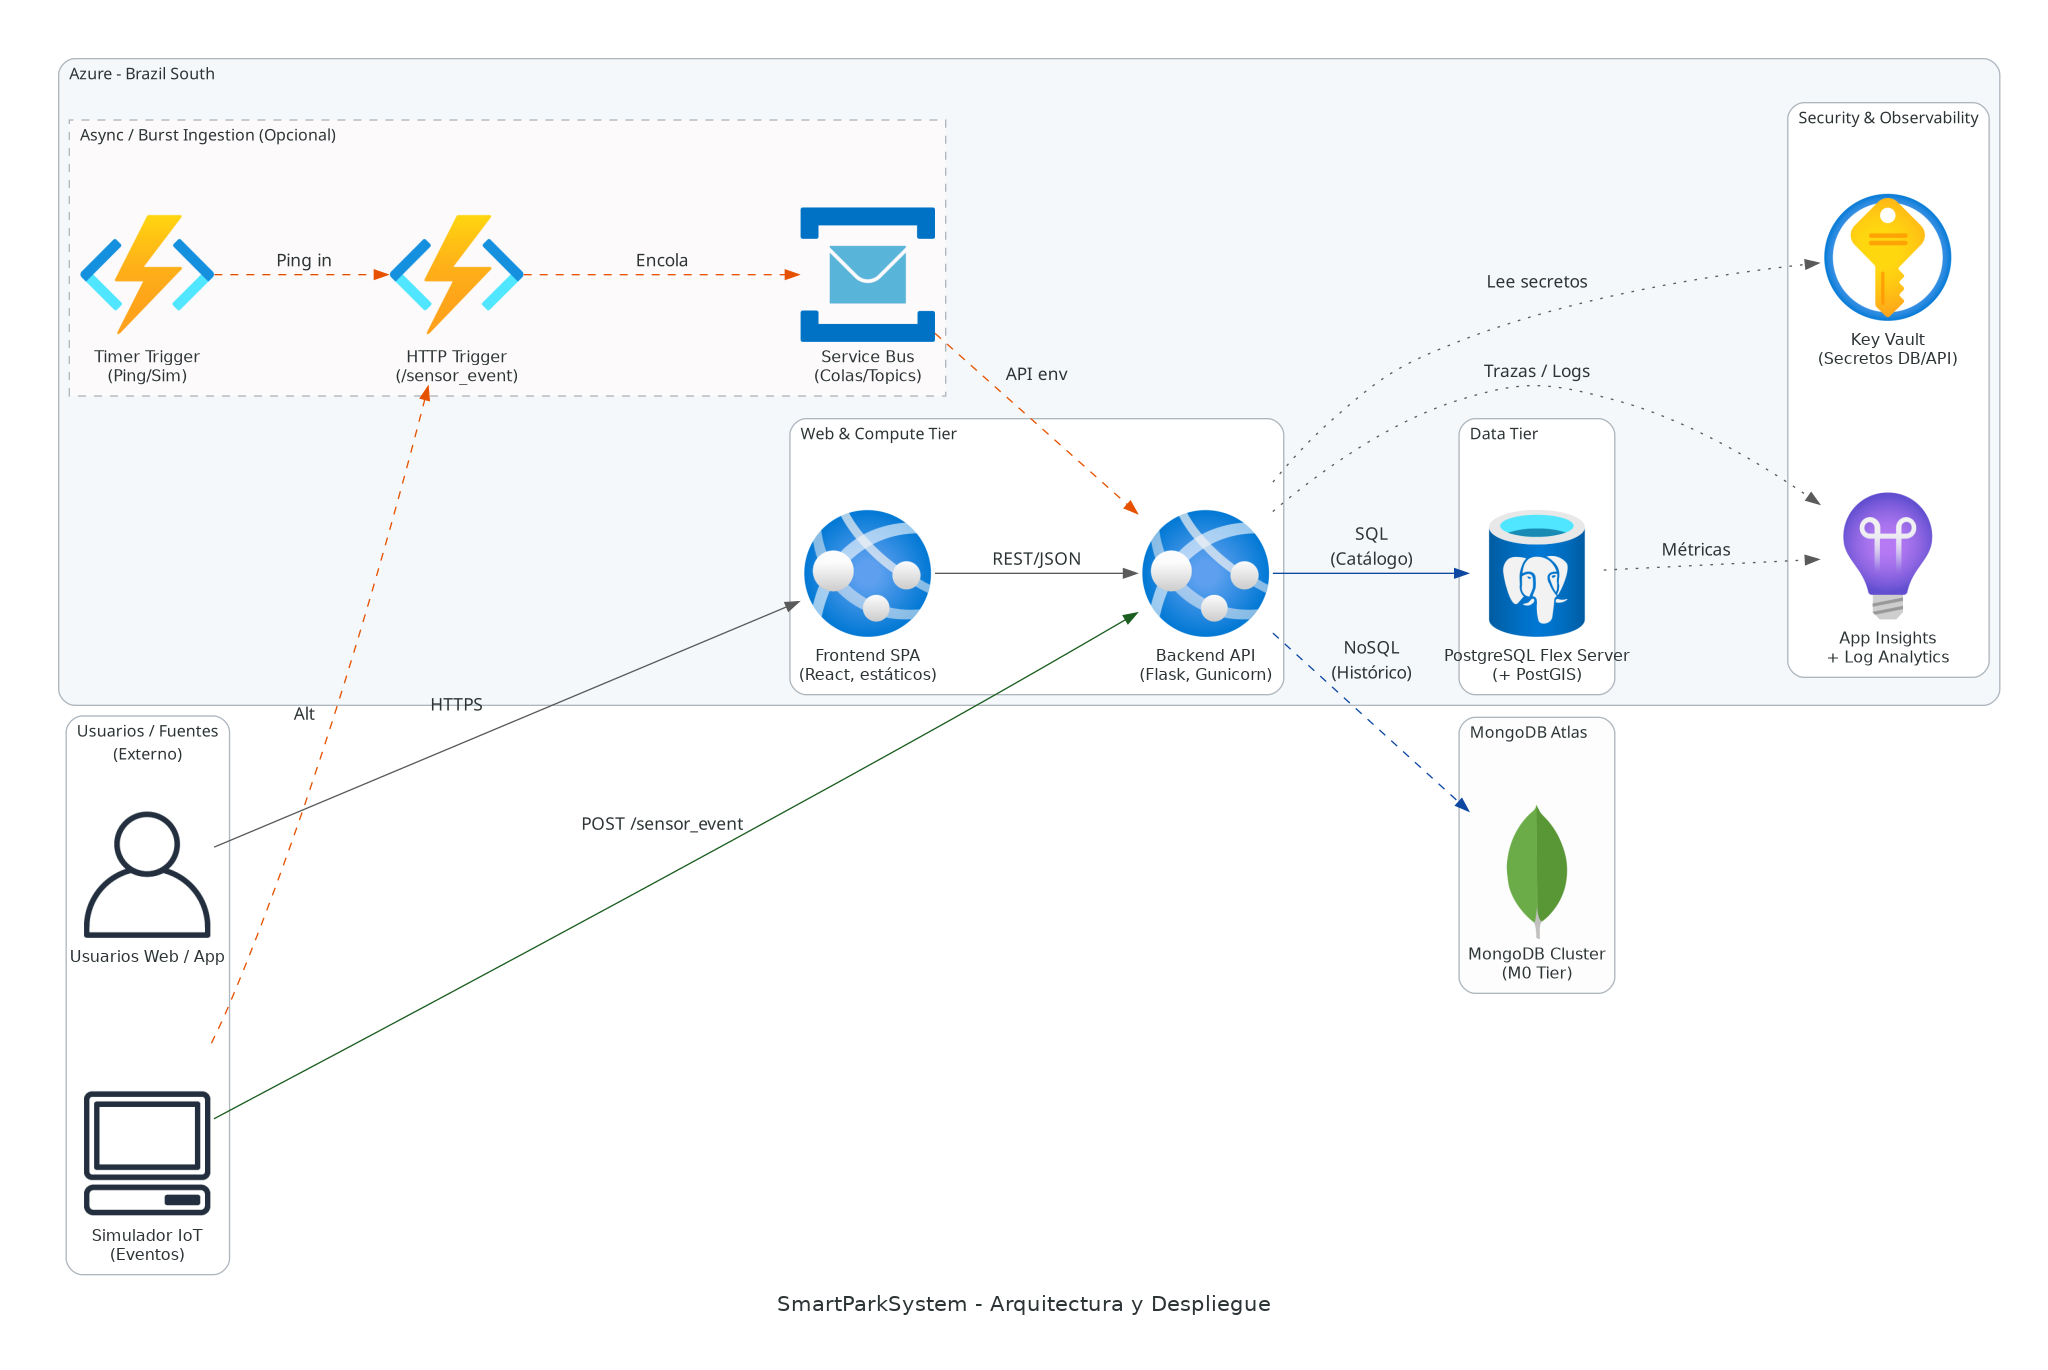
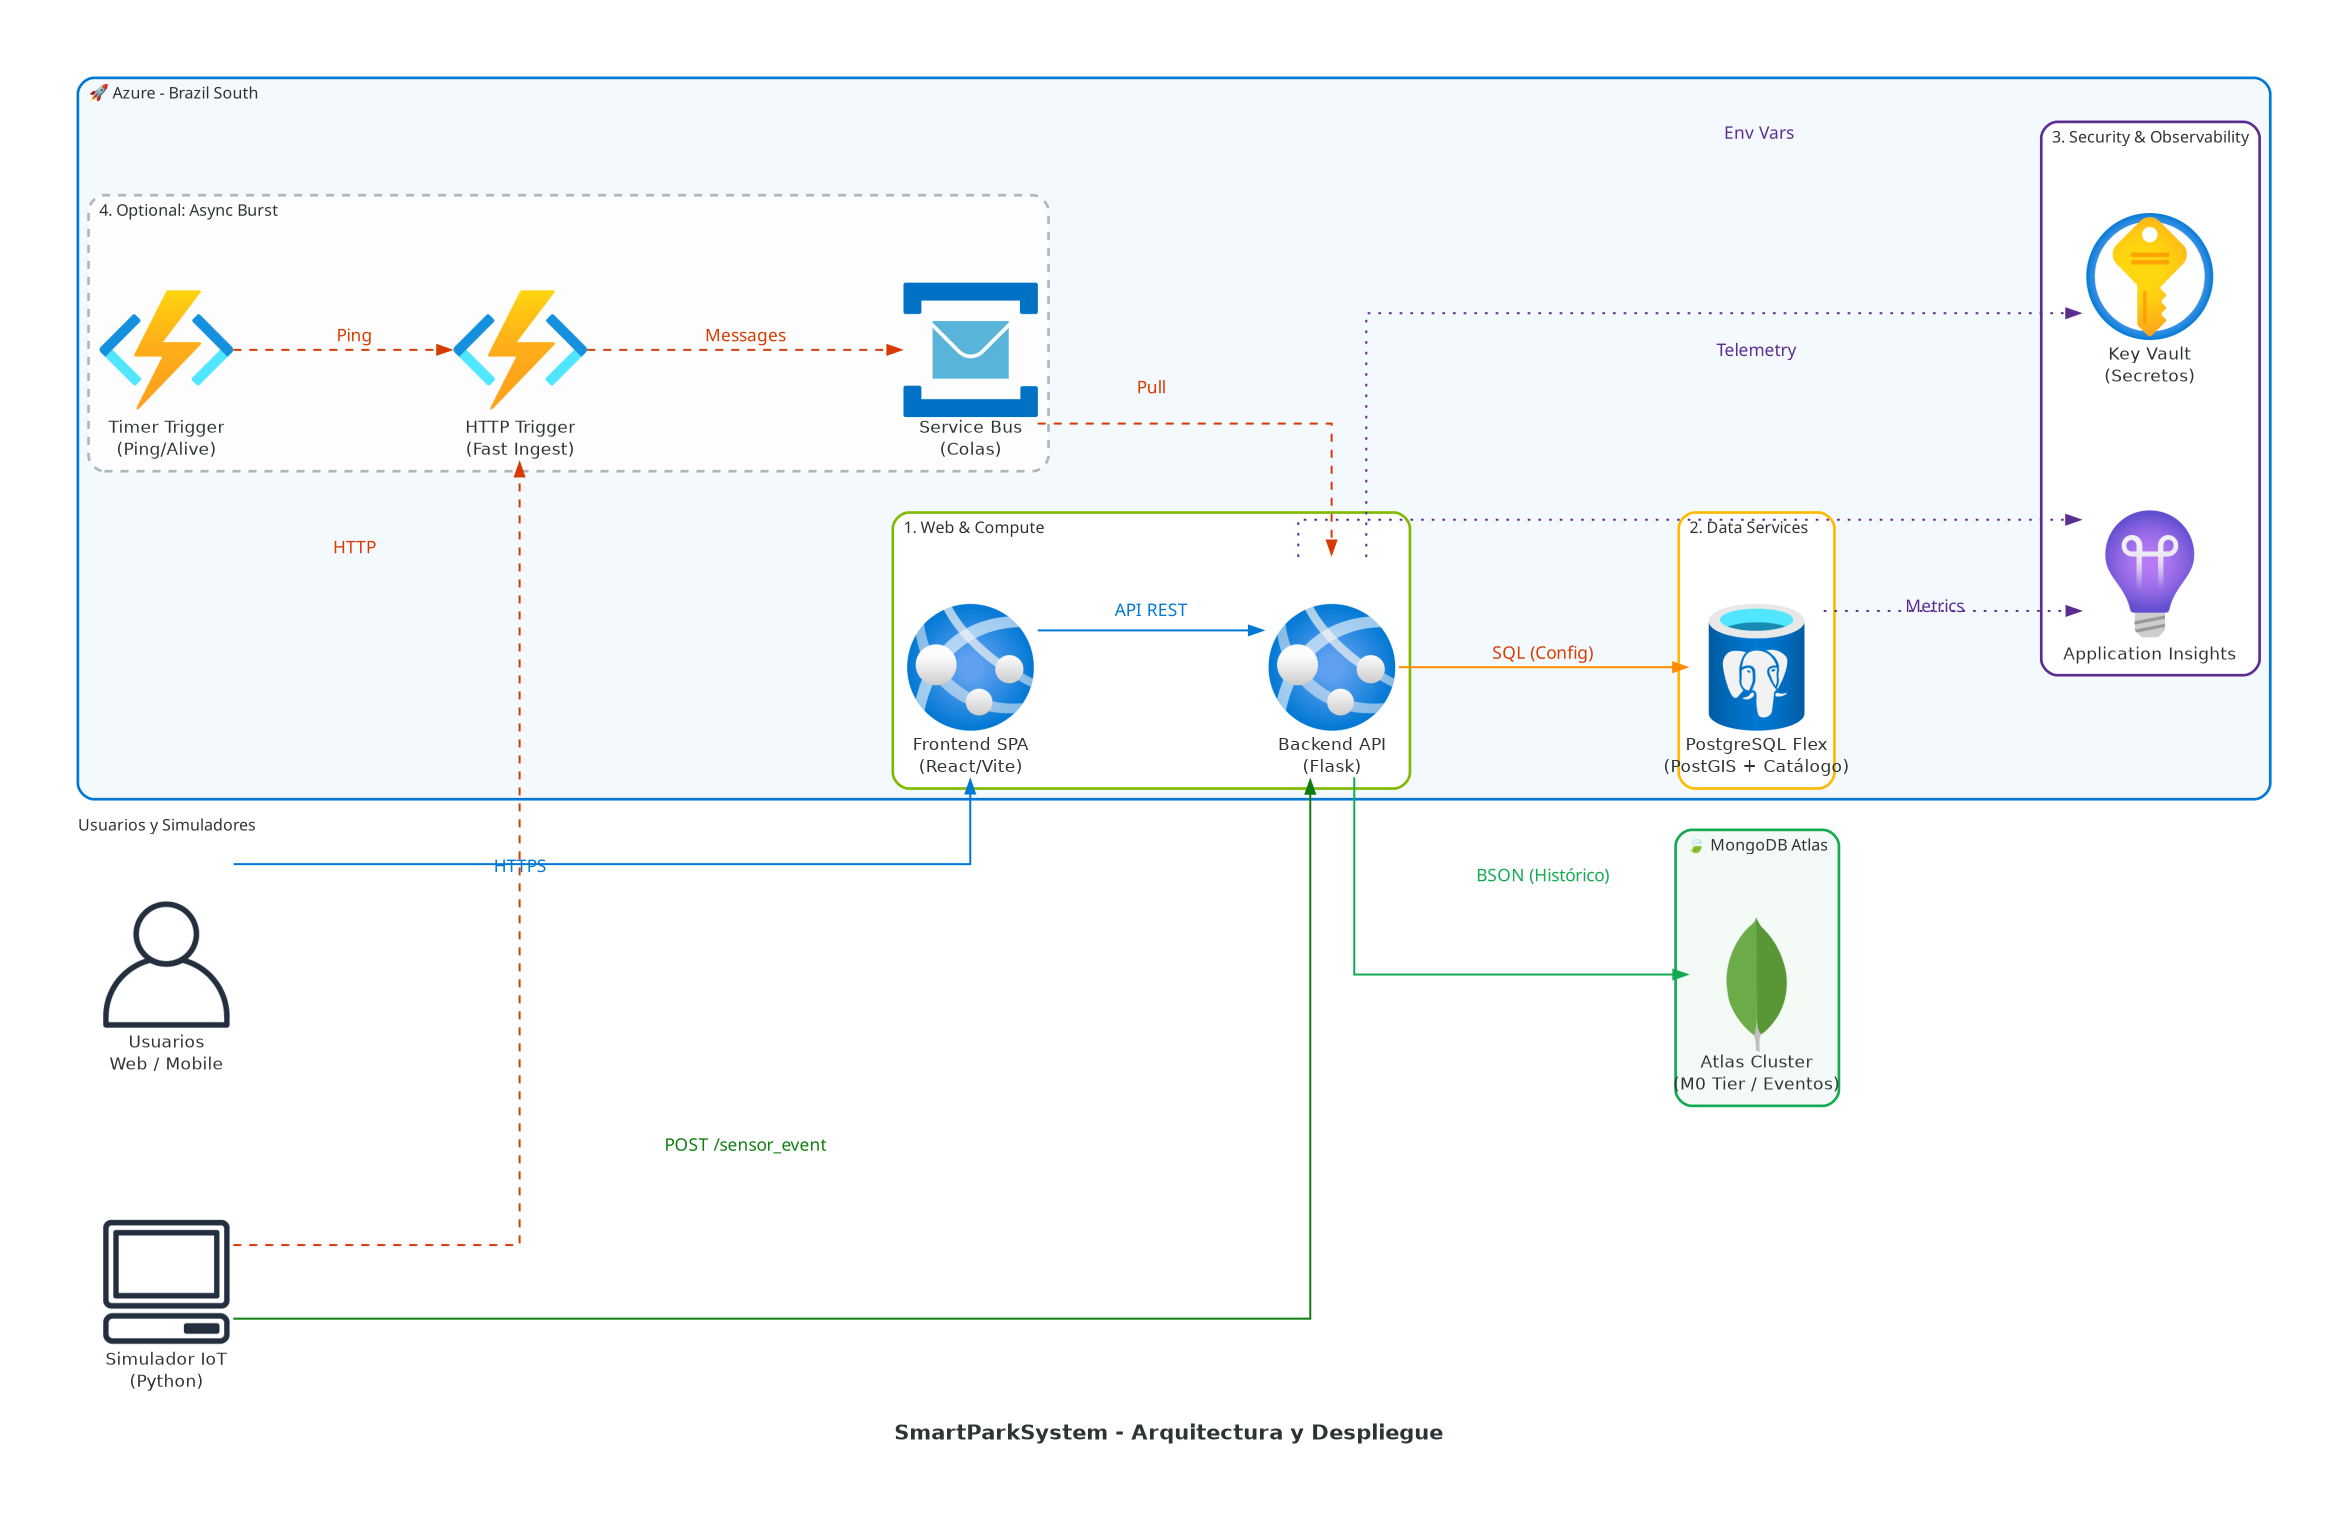
mc

diff --git a/tools/diagram_arch_demo_deploy_az.py b/tools/diagram_arch_demo_deploy_az.py
@@ -18,22 +18,25 @@ def build(output_base: Path) -> None:
     # Atributos de formato profesional
     graph_attr = {
         "fontsize": "16",
-        "pad": "0.5",
-        "nodesep": "0.8",
-        "ranksep": "1.2",
-        "fontname": "Helvetica",
-        "splines": "spline",
+        "pad": "0.7",
+        "nodesep": "0.9",
+        "ranksep": "1.5",
+        "fontname": "Helvetica-Bold",
+        "splines": "ortho",
+        "nodesep": "1",
+        "rankdir": "LR",
     }
 
     node_attr = {
-        "fontsize": "12",
+        "fontsize": "13",
         "fontname": "Helvetica",
     }
 
     edge_attr = {
-        "fontsize": "10",
-        "fontname": "Helvetica",
-        "color": "#5A5A5A",
+        "fontsize": "11",
+        "fontname": "Helvetica-Bold",
+        "color": "#333333",
+        "penwidth": "1.5",
     }
 
     with Diagram(
@@ -46,51 +49,55 @@ def build(output_base: Path) -> None:
         node_attr=node_attr,
         edge_attr=edge_attr,
     ):
-        with Cluster("Azure - Brazil South", graph_attr={"bgcolor": "#F4F8FA"}):
-            with Cluster("Web & Compute Tier", graph_attr={"bgcolor": "#FFFFFF"}):
-                frontend = AppServices("Frontend SPA\n(React, estáticos)")
-                api = AppServices("Backend API\n(Flask, Gunicorn)")
+        with Cluster("Usuarios y Simuladores", graph_attr={"bgcolor": "transparent", "penwidth": "0"}):
+            users = User("Usuarios\nWeb / Mobile")
+            simulator = Client("Simulador IoT\n(Python)")
 
-            with Cluster("Data Tier", graph_attr={"bgcolor": "#FFFFFF"}):
-                pg = DatabaseForPostgresqlServers(
-                    "PostgreSQL Flex Server\n(+ PostGIS)"
-                )
+        with Cluster("🚀 Azure - Brazil South", graph_attr={"bgcolor": "#F4F9FD", "style": "rounded", "pencolor": "#0078D4", "penwidth": "2"}):
+            
+            with Cluster("1. Web & Compute", graph_attr={"bgcolor": "#FFFFFF", "style": "rounded", "pencolor": "#7FBA00"}):
+                frontend = AppServices("Frontend SPA\n(React/Vite)")
+                api = AppServices("Backend API\n(Flask)")
+                
+                # Alinear frontend y api
+                frontend - Edge(style="invis") - api
 
-            with Cluster("Security & Observability", graph_attr={"bgcolor": "#FFFFFF"}):
-                kv = KeyVaults("Key Vault\n(Secretos DB/API)")
-                mon = ApplicationInsights("App Insights\n+ Log Analytics")
+            with Cluster("2. Data Services", graph_attr={"bgcolor": "#FFFFFF", "style": "rounded", "pencolor": "#FFB900"}):
+                pg = DatabaseForPostgresqlServers("PostgreSQL Flex\n(PostGIS + Catálogo)")
 
-            with Cluster("Async / Burst Ingestion (Opcional)", graph_attr={"style": "dashed", "bgcolor": "#FCFAFA"}):
-                fn_timer = FunctionApps("Timer Trigger\n(Ping/Sim)")
-                fn_http = FunctionApps("HTTP Trigger\n(/sensor_event)")
-                sb = ServiceBus("Service Bus\n(Colas/Topics)")
+            with Cluster("3. Security & Observability", graph_attr={"bgcolor": "#FFFFFF", "style": "rounded", "pencolor": "#5C2D91"}):
+                kv = KeyVaults("Key Vault\n(Secretos)")
+                mon = ApplicationInsights("Application Insights")
 
-        with Cluster("MongoDB Atlas", graph_attr={"bgcolor": "#FCFDFC"}):
-            mdb = MongoDB("MongoDB Cluster\n(M0 Tier)")
+            with Cluster("4. Optional: Async Burst", graph_attr={"bgcolor": "#FCFDFC", "style": "dashed,rounded"}):
+                fn_http = FunctionApps("HTTP Trigger\n(Fast Ingest)")
+                fn_timer = FunctionApps("Timer Trigger\n(Ping/Alive)")
+                sb = ServiceBus("Service Bus\n(Colas)")
 
-        with Cluster("Usuarios / Fuentes\n(Externo)", graph_attr={"bgcolor": "#ffffff", "color": "#ffffff"}):
-            users = User("Usuarios Web / App")
-            simulator = Client("Simulador IoT\n(Eventos)")
+        with Cluster("🍃 MongoDB Atlas", graph_attr={"bgcolor": "#F4FAF6", "style": "rounded", "pencolor": "#13AA52", "penwidth": "2"}):
+            mdb = MongoDB("Atlas Cluster\n(M0 Tier / Eventos)")
 
-        # Flujos de entrada principales
-        users >> Edge(label="HTTPS") >> frontend
-        frontend >> Edge(label="REST/JSON") >> api
-        simulator >> Edge(label="POST /sensor_event", color="#1B5E20") >> api
+        # Flujos de entrada principales (Usuarios)
+        users >> Edge(label=" HTTPS ", color="#0078D4", fontcolor="#0078D4") >> frontend
+        frontend >> Edge(label=" API REST ", color="#0078D4", fontcolor="#0078D4") >> api
+        
+        # Flujo de Simulador
+        simulator >> Edge(label=" POST /sensor_event ", color="#107C10", fontcolor="#107C10") >> api
 
-        # Interacciones API -> BD
-        api >> Edge(label="SQL\n(Catálogo)", color="#0D47A1") >> pg
-        api >> Edge(label="NoSQL\n(Histórico)", color="#0D47A1", style="dashed") >> mdb
+        # Interacciones API -> Bases de datos
+        api >> Edge(label=" SQL (Config) ", color="#FF8C00", fontcolor="#D83B01") >> pg
+        api >> Edge(label=" BSON (Histórico) ", color="#13AA52", fontcolor="#13AA52") >> mdb
 
-        # Interacciones Management
-        api >> Edge(style="dotted", label="Lee secretos") >> kv
-        api >> Edge(style="dotted", label="Trazas / Logs") >> mon
-        pg >> Edge(style="dotted", label="Métricas") >> mon
+        # Governance & Observability (Dotted)
+        api >> Edge(style="dotted", label=" Env Vars", color="#5C2D91", fontcolor="#5C2D91") >> kv
+        api >> Edge(style="dotted", label=" Telemetry ", color="#5C2D91", fontcolor="#5C2D91") >> mon
+        pg >> Edge(style="dotted", label=" Metrics ", color="#5C2D91", fontcolor="#5C2D91") >> mon
 
-        # Flujos asíncronos / alternativos
-        simulator >> Edge(style="dashed", color="#E65100", label="Alt") >> fn_http
-        fn_timer >> Edge(style="dashed", color="#E65100", label="Ping in") >> fn_http
-        fn_http >> Edge(style="dashed", color="#E65100", label="Encola") >> sb
-        sb >> Edge(style="dashed", color="#E65100", label="API env") >> api
+        # Opcional (Asíncrono)
+        simulator >> Edge(style="dashed", color="#D83B01", fontcolor="#D83B01", label=" HTTP ") >> fn_http
+        fn_timer >> Edge(style="dashed", color="#D83B01", fontcolor="#D83B01", label=" Ping ") >> fn_http
+        fn_http >> Edge(style="dashed", color="#D83B01", fontcolor="#D83B01", label=" Messages ") >> sb
+        sb >> Edge(style="dashed", color="#D83B01", fontcolor="#D83B01", label=" Pull ") >> api
 
 
 def main() -> None:
